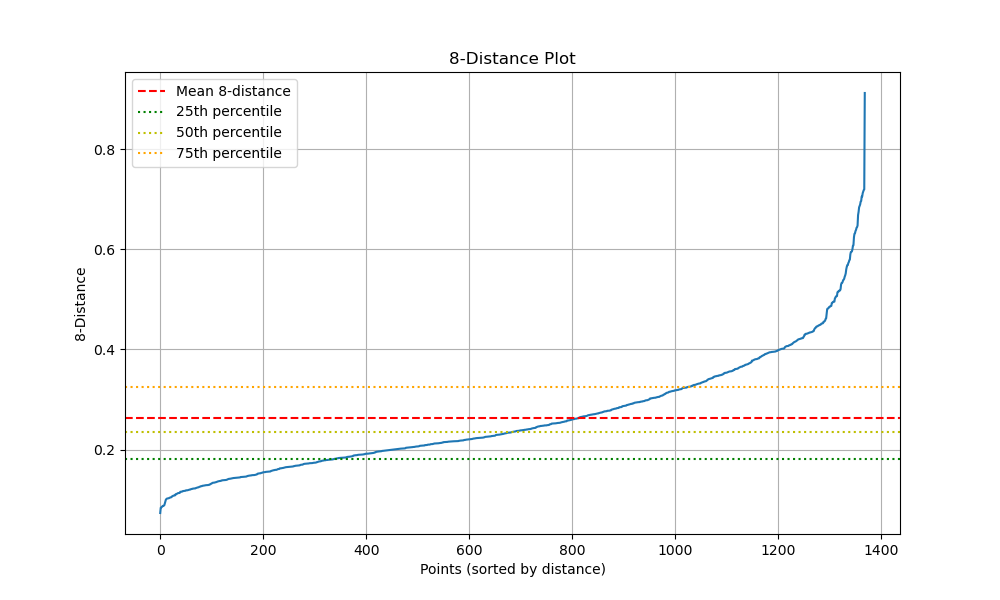
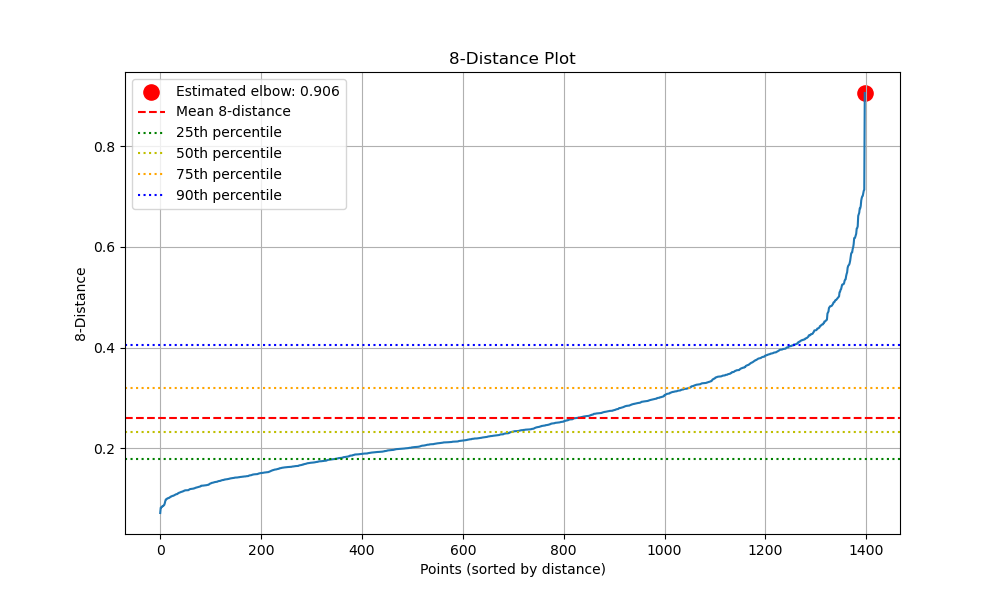
new plots for new data

diff --git a/3_eda/eda.py b/3_eda/eda.py
@@ -31,7 +31,7 @@ def plot_distributions(df, features, title):
         axes[row, col].set_ylabel('Count')
     
     plt.tight_layout()
-    plt.savefig(f'visualizations/{title}.png')
+    plt.savefig(f'{title}.png')
     plt.show()
 
 def plot_correlation_matrix(df, features, title):
@@ -57,7 +57,7 @@ def plot_correlation_matrix(df, features, title):
     
     plt.title(title)
     plt.tight_layout()
-    plt.savefig(f'visualizations/{title}.png')
+    plt.savefig(f'{title}.png')
     plt.show()
 
 def plot_scatter_matrix(df, features, title):
@@ -82,7 +82,7 @@ def plot_scatter_matrix(df, features, title):
                 axes[i, j].set_ylabel(features[i])
     
     plt.tight_layout()
-    plt.savefig(f'visualizations/{title}.png')
+    plt.savefig(f'{title}.png')
     plt.show()
 
 def compute_kdistance_plot(df, features, k, title):
@@ -96,16 +96,28 @@ def compute_kdistance_plot(df, features, k, title):
     # get k-distances for each point and sort them
     kdistances = distances.apply(lambda x: x.sort_values().iloc[k])
     kdistances_sorted = kdistances.sort_values(ascending=True)
+
+    y_values = list(kdistances_sorted.values)
+    slopes = []
+    for i in range(1,len(y_values)):
+        slopes.append(y_values[i] - y_values[i-1])
+    
+    elbow_idx = slopes.index(max(slopes)) + 1
+    elbow_value = kdistances_sorted.iloc[elbow_idx]
+
     
     # plot k-distance graph
     plt.figure(figsize=(10, 6))
     plt.plot(range(len(kdistances_sorted)), kdistances_sorted.values)
+
+    # add elbow point
+    plt.scatter(elbow_idx, elbow_value, color='r', s=120, label=f'Estimated elbow: {elbow_value:.3f}')
+
     
     # add mean and percentile lines
-    plt.axhline(y=kdistances_sorted.mean(), color='r', linestyle='--', 
-                label=f'Mean {k}-distance')
+    plt.axhline(y=kdistances_sorted.mean(), color='r', linestyle='--', label=f'Mean {k}-distance')
     
-    for p, c in zip([25, 50, 75], ['g', 'y', 'orange']):
+    for p, c in zip([25, 50, 75, 90], ['g', 'y', 'orange', 'blue']):
         eps = kdistances_sorted.quantile(p/100)
         plt.axhline(y=eps, color=c, linestyle=':', 
                    label=f'{p}th percentile')
@@ -115,7 +127,7 @@ def compute_kdistance_plot(df, features, k, title):
     plt.ylabel(f'{k}-Distance')
     plt.legend()
     plt.grid(True)
-    plt.savefig(f'visualizations/{k}{title}.png')
+    plt.savefig(f'{k}{title}.png')
     plt.show()
 
     
@@ -123,15 +135,18 @@ def compute_kdistance_plot(df, features, k, title):
     print("\nPotential eps values at different percentiles:")
     for p in [10, 25, 50, 75, 90]:
         print(f"{p}th percentile: {kdistances_sorted.quantile(p/100):.3f}")
+    
+    # print elbow
+    print(f'Estimated elbow: {elbow_value:.3f}')
 
 def main():
     # Load data
     df, normalized_features, chosen_features = load_data()
 
     # Feature search
-    # plot_distributions(df, normalized_features, title='All Normalized Features Distributions')
-    # plot_correlation_matrix(df, normalized_features, title='All Normalized Feature Correlations')
-    # plot_scatter_matrix(df, normalized_features, title='All Normalized Features Scatter Matrix')
+    plot_distributions(df, normalized_features, title='All Normalized Features Distributions')
+    plot_correlation_matrix(df, normalized_features, title='All Normalized Feature Correlations')
+    plot_scatter_matrix(df, normalized_features, title='All Normalized Features Scatter Matrix')
 
     
     # Plot distributions
